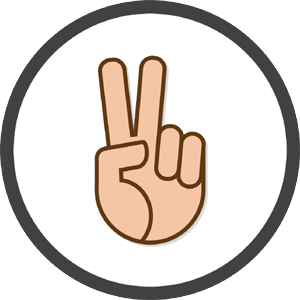
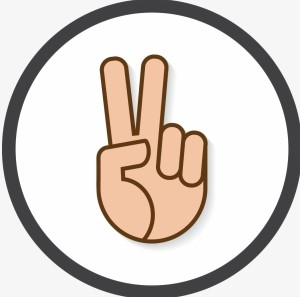
Background color and image's shape enhanced

diff --git a/style.css b/style.css
@@ -3,9 +3,10 @@
     margin: 0;
 }
 body{
+    background-color: #f6f6f6;
     text-align: center;
-    font-family: Arial, Helvetica, sans-serif;
-    color: rgb(248, 57, 57);
+    font-family:Georgia, 'Times New Roman', Times, serif;
+    color: rgb(18, 6, 239);
 }
 h1{
     padding: 15px;
